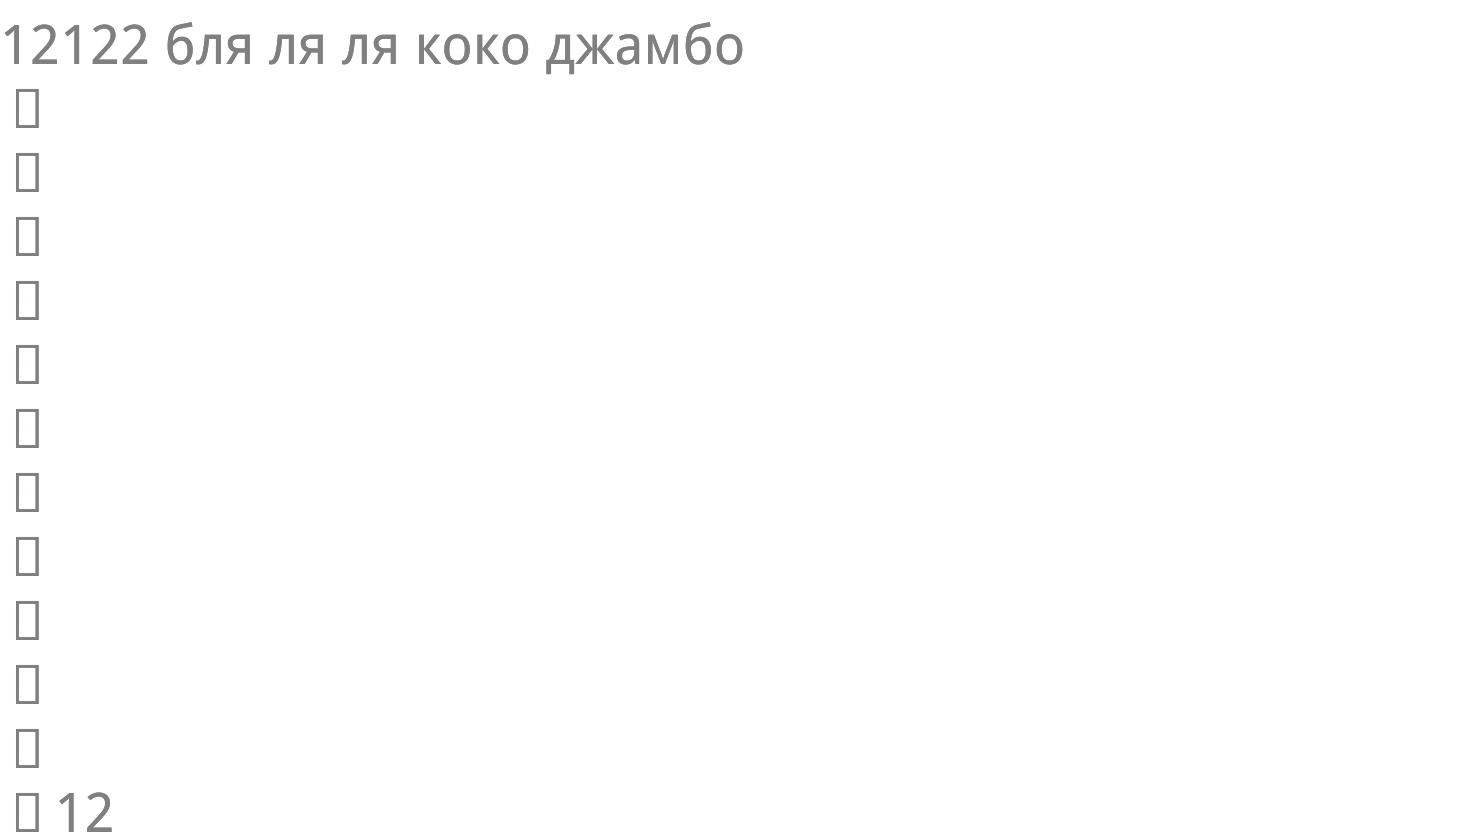
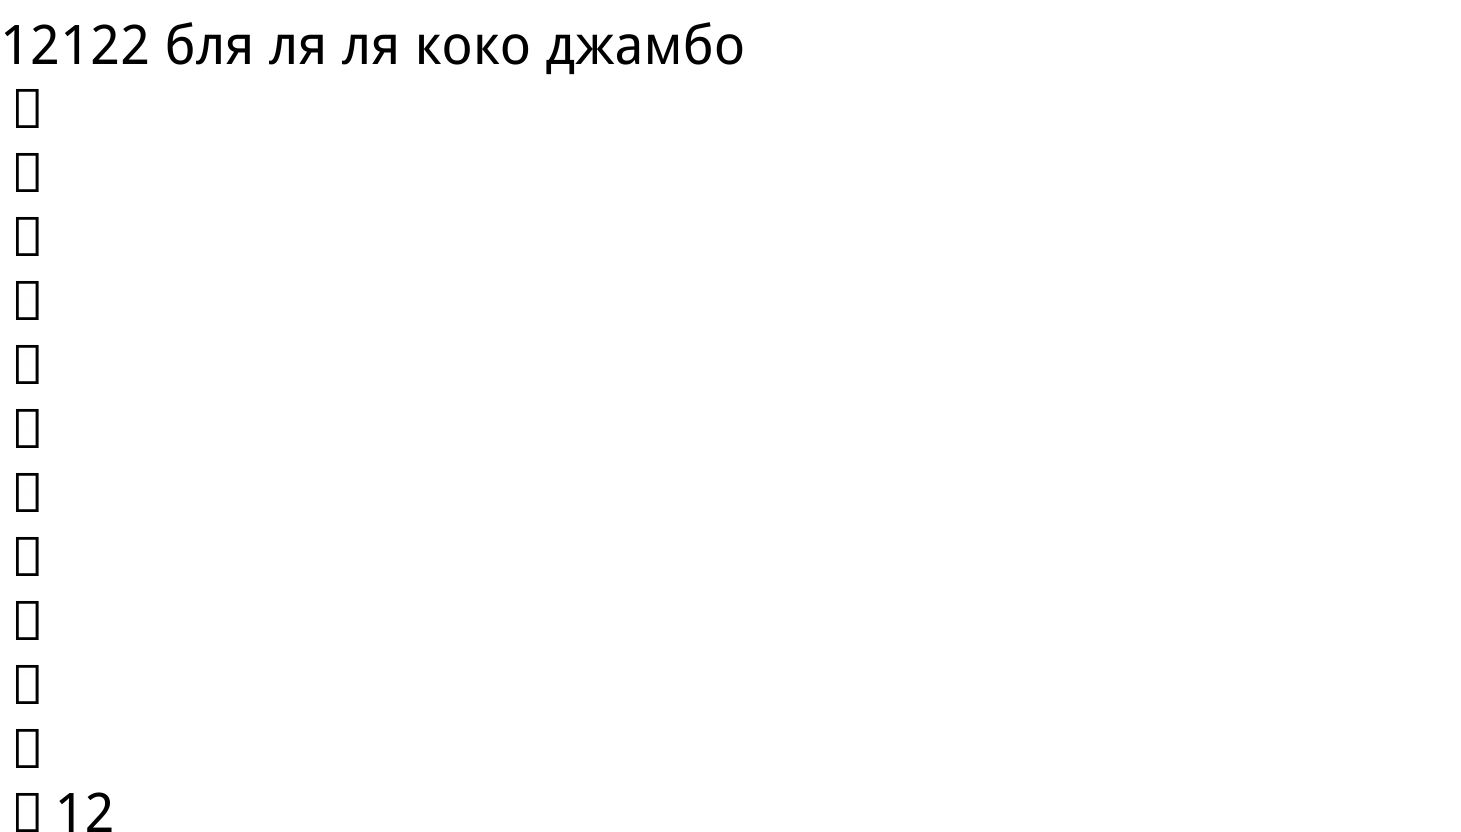
save

diff --git a/src/renderer.rs b/src/renderer.rs
@@ -1,14 +1,10 @@
 extern crate rusttype;
 extern crate unicode_normalization;
 
-// use self::rusttype::gpu_cache::Cache;
+use std::char;
 use self::rusttype::*;
 use self::unicode_normalization::UnicodeNormalization;
-// use std::usize::MAX;
 use super::*;
-// use std::convert::TryFrom;
-// use std::char::from_u32_unchecked;
-use std::char;
 
 
 use units::ColorRGBA;
@@ -19,16 +15,11 @@ pub struct TextRenderer<'a> {
 	pub height: usize,
 	pub break_word: bool,
 	pub padding: (usize, usize, usize, usize),
-	// pub chunks: Vec<Chunk>,
 
-	// max_height: usize,
-
-	pub lines: Vec<(Vec<(ScaledGlyph<'a>, Chunk)>, f32, f32)>,
-	pub current_line: Vec<(ScaledGlyph<'a>, Chunk)>,
-	// pub current_word: Vec<ScaledGlyph<'a>>,
-	pub advance_height: f32,
-	pub line_width: f32,
-
+	lines: Vec<(Vec<(ScaledGlyph<'a>, Chunk)>, f32, f32)>,
+	current_line: Vec<(ScaledGlyph<'a>, Chunk)>,
+	advance_height: f32,
+	line_width: f32,
 }
 
 
@@ -36,7 +27,7 @@ pub struct TextRenderer<'a> {
 impl <'a> TextRenderer<'a> {
 	pub fn new () -> Self {
 		Self {
-			background: [1.0,1.0,1.0,1.0],
+			background: [255,255,255,255],
 			width: 0,
 			height: 0,
 			break_word: false,
@@ -44,10 +35,8 @@ impl <'a> TextRenderer<'a> {
 
 			lines: Vec::new(),
 			current_line: Vec::new(),
-			// current_word: Vec::new(),
 			advance_height: 0.0,
 			line_width: 0.0,
-			// chunks
 		}
 	}
 
@@ -102,7 +91,7 @@ impl <'a> TextRenderer<'a> {
 					scale = Scale::uniform(font_size as f32 * dpi_factor);
 					v_metrics = font.v_metrics(scale);
 					self.advance_height = self.advance_height.max(v_metrics.ascent - v_metrics.descent + v_metrics.line_gap);
-					println!("{}", self.advance_height);
+					// println!("{}", self.advance_height);
 				}
 
 				let base_glyph = font.glyph(letter);
@@ -196,7 +185,7 @@ impl <'a> TextRenderer<'a> {
 
 		let mut buffer = ImgBuffer::new(img_width, img_height, &self.background);
 		let mut last_glyph_id = None;
-		let mut color = [0.0,0.0,0.0,0.0];
+		let mut color = [0,0,0,255];
 		let mut bg = self.background;
 
 		for (line, width, height) in self.lines.iter_mut() {
@@ -222,55 +211,14 @@ impl <'a> TextRenderer<'a> {
 					color = c_color;
 				}
 
-				// println!("draw glyph: {:?}", glyph.id());
-				println!("caret: {:?}", caret);
-				// println!("last_glyph_id: {:?}", last_glyph_id);
-				// println!("bg: {:?}", bg);
-
 				if let Some(bounding_box) = glyph.pixel_bounding_box() {
-					// println!("BB: {:?}", bounding_box);
-
-
 					glyph.draw(|x, y, v| {
 						let x = (bounding_box.min.x+(x as i32)) as usize;
 						let y = (bounding_box.min.y+(y as i32)) as usize;
-						// println!("===> {}, {}", x, y);
 
-						// let alpha = v;
-
-						buffer.put_pixel(x, y, [
-							(((bg[0]*(1.0-v)) + (color[0] * v)) * 255.0) as u8,
-							(((bg[1]*(1.0-v)) + (color[1] * v)) * 255.0) as u8,
-							(((bg[2]*(1.0-v)) + (color[2] * v)) * 255.0) as u8,
-							(((bg[3]*(1.0-v)) + (color[3] * v)) * 255.0) as u8,
-							// ((bg[3] + (color[3] * v)) * 255.0) as u8,
-							// (bg[0] + (bg[0] - color[0] * alpha)) as u8,
-							// (bg[1] + (bg[1] - color[1] * alpha)) as u8,
-							// (bg[2] + (bg[2] - color[2] * alpha)) as u8,
-							// (bg[3] + alpha) as u8
-
-						]);
-						// image.put_pixel(
-						// 	// Offset the position by the glyph bounding box
-						// 	x + bounding_box.min.x as u32,
-						// 	y + bounding_box.min.y as u32,
-						// 	// Turn the coverage into an alpha value
-						// 	Rgba {
-						// 		data: [colour.0, colour.1, colour.2, (v * 255.0) as u8],
-						// 	},
-						// )
+						buffer.put_pixel_alpha_blend(x, y, &color, v);
 					});
 				}
-
-				// glyph
-				// 	.draw(|x, y, v| {
-				// 		buffer.put_pixel(x as usize, y as usize, [
-				// 			color[0],
-				// 			color[1],
-				// 			color[2],
-				// 			(color[3] as f32 * v) as u8
-				// 		]);
-				// 	});
 
 				last_glyph_id = Some(glyph.id());
 				caret.x += glyph.unpositioned().h_metrics().advance_width;

diff --git a/src/units.rs b/src/units.rs
@@ -1,6 +1,5 @@
 
-// #[derive(Debug, Clone, Copy, Eq, PartialEq)]
-pub type ColorRGBA = [f32;4];
+pub type ColorRGBA = [u8;4];
 
 pub struct ImgBuffer {
 	pub buffer: Vec<u8>,
@@ -9,17 +8,12 @@ pub struct ImgBuffer {
 }
 
 impl ImgBuffer {
-	pub fn new(width:usize, height:usize, fill:&[f32;4]) -> Self {
+	pub fn new(width:usize, height:usize, fill:&[u8;4]) -> Self {
 		let capacity = width * height * 4;
 		let mut buffer: Vec<u8> = Vec::with_capacity(capacity);
-		let f = [
-			(fill[0] * 255.0) as u8,
-			(fill[1] * 255.0) as u8,
-			(fill[2] * 255.0) as u8,
-			(fill[3] * 255.0) as u8,
-		];
+
 		for _ in 0..width * height {
-			buffer.extend_from_slice(&f);
+			buffer.extend_from_slice(fill);
 		}
 
 		Self {
@@ -29,35 +23,37 @@ impl ImgBuffer {
 		}
 	}
 
-	pub fn put_pixel(&mut self, x:usize ,y:usize, pixel:[u8;4]) {
-		// println!("x:{:?}, self.width:{}, y: {}", x, self.width,y);
+	pub fn get_pixel_mut(&mut self, x: usize, y: usize) -> &mut [u8] {
 		let i = (x*4) + (self.width*4 * y);
-		self.buffer[ i   ] = pixel[0];
-		self.buffer[ i+1 ] = pixel[1];
-		self.buffer[ i+2 ] = pixel[2];
-		self.buffer[ i+3 ] = pixel[3];
+		&mut self.buffer[i..(i+4)]
+	}
+
+	pub fn put_pixel(&mut self, x:usize ,y:usize, pixel: &[u8;4]) {
+		let o_pixel = self.get_pixel_mut(x, y);
+		o_pixel[0] = pixel[0];
+		o_pixel[1] = pixel[1];
+		o_pixel[2] = pixel[2];
+		o_pixel[3] = pixel[3];
+	}
+
+	pub fn put_pixel_alpha_blend(&mut self, x:usize ,y:usize, pixel: &[u8;4], v:f32) {
+		let o_pixel = self.get_pixel_mut(x, y);
+		let f_pixel = [
+			pixel[0] as f32 / 255.0,
+			pixel[1] as f32 / 255.0,
+			pixel[2] as f32 / 255.0,
+			pixel[3] as f32 / 255.0,
+		];
+		let alpha = f_pixel[3] * v;
+		let o_alpha = o_pixel[3] as f32 / 255.0;
+
+		o_pixel[0] = ((((o_pixel[0] as f32 / 255.0) * (1.0-alpha)) + (f_pixel[0]*alpha)) * 255.0) as u8;
+		o_pixel[1] = ((((o_pixel[1] as f32 / 255.0) * (1.0-alpha)) + (f_pixel[1]*alpha)) * 255.0) as u8;
+		o_pixel[2] = ((((o_pixel[2] as f32 / 255.0) * (1.0-alpha)) + (f_pixel[2]*alpha)) * 255.0) as u8;
+		o_pixel[3] = ((o_alpha + (alpha * o_alpha)).min(1.0).max(0.0) * 255.0) as u8;
 	}
 }
 
-// pub struct ColorRGBA {
-// 	pub r:u8,
-// 	pub g:u8,
-// 	pub b:u8,
-// 	pub a:u8,
-// }
-
-
-// impl Default for ColorRGBA {
-// 	fn default() -> Self {
-// 		ColorRGBA([0,0,0,255])
-// 	}
-// }
-
-// impl ColorRGBA {
-// 	pub fn new(r:u8,g:u8,b:u8,a:u8) -> Self {
-// 		ColorRGBA([r,g,b,a])
-// 	}
-// }
 
 #[derive(Debug, Clone, PartialEq)]
 pub struct Point {

diff --git a/src/main.rs b/src/main.rs
@@ -40,50 +40,12 @@ fn main() {
 
 	let buffer = renderer.render(chunks, &fonts, 1.0);
 
-	println!("w:{}, h:{}", buffer.width, buffer.height);
-	println!("len: {}, c:{}", buffer.buffer.len(), buffer.width * buffer.height * 4);
-	// let buffer.buffer;
-	// for i in 0..buffer.height {
-	// 	let height = buffer.height as usize;
-	// 	let width = buffer.width as usize;
-	// 	let slice = &buffer.buffer[ width*i*4..width*(i+1)*4 ];
-	// 	// let slice: Vec<u8> = slice
-	// 	// 	.iter()
-	// 	// 	.step_by(4)
-	// 	// 	.map( |e| if *e > 100 {1} else {0} )
-	// 	// 	.collect();
-
-	// 	println!("{:?}", slice);
-	// }
-
-	// let mut pixels = Vec::with_capacity(buffer.width * buffer.height);
-	// for i in 0 .. buffer.width * buffer.height {
-	// 	let pixel = Rgba { data:[
-	// 		buffer.buffer[i  ],
-	// 		buffer.buffer[i+1],
-	// 		buffer.buffer[i+2],
-	// 		buffer.buffer[i+3]
-	// 	]};
-	// 	pixels.push(pixel);
-	// }
 	let mut imgbuf = image::RgbaImage::from_vec(buffer.width as u32, buffer.height as u32, buffer.buffer).unwrap();
 	imgbuf.save("image_example.png").unwrap();
 
 
-	// let mut imgbuf = image::RgbaImage::new(buffer.width as u32, buffer.height as u32);
-	// let mut imgbuf = image::GrayImage::new(buffer.width, buffer.height);
-
 
 }
-
-
-// #[cfg(test)]
-// mod tests {
-//     #[test]
-//     fn it_works() {
-//         assert_eq!(2 + 2, 4);
-//     }
-// }
 
 
 

diff --git a/src/chunk.rs b/src/chunk.rs
@@ -1,6 +1,7 @@
 use std::ops::Add;
 use super::units::*;
 
+
 #[derive(Debug, Clone, Copy, Eq, PartialEq)]
 pub enum TextAlignHorizontal {
 	Left,
@@ -59,6 +60,7 @@ impl Chunk {
 		}
 	}
 
+
 	pub fn patch(&mut self, other: &Self) -> &mut Self {
 
 		if other.font_size != None 	{self.font_size = other.font_size;}
@@ -69,6 +71,7 @@ impl Chunk {
 
 		self
 	}
+
 
 	pub fn duplicate(&self) -> Self {
 		let mut  n = Self::new();
@@ -84,7 +87,7 @@ impl Default for Chunk {
 			bold: Some(false),
 			italic: Some(false),
 			font_size: Some(10),
-			color: Some( [0.0, 0.0, 0.0, 0.5] ),
+			color: Some( [0, 0, 0, 255] ),
 			text_align_horizontal: Some(TextAlignHorizontal::Left),
 			font: None,
 			string: "".to_string(),
